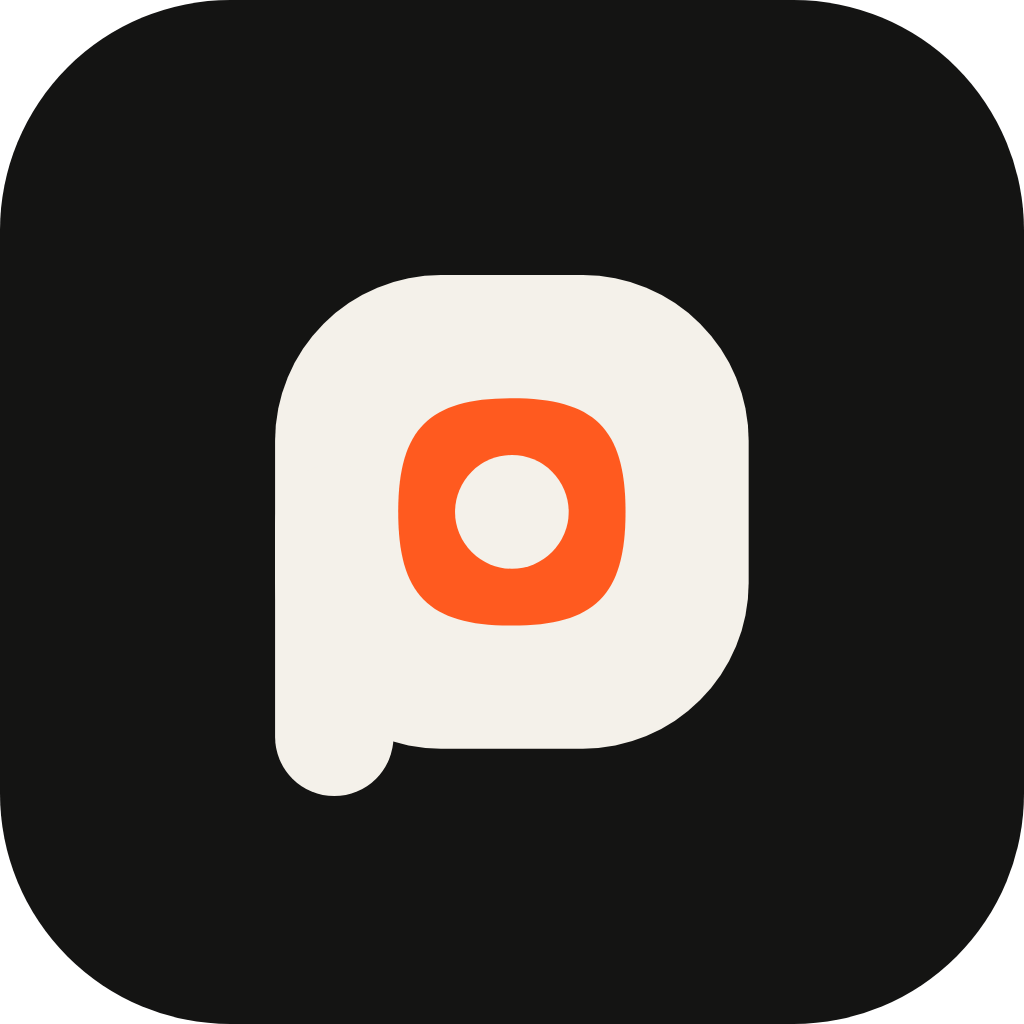
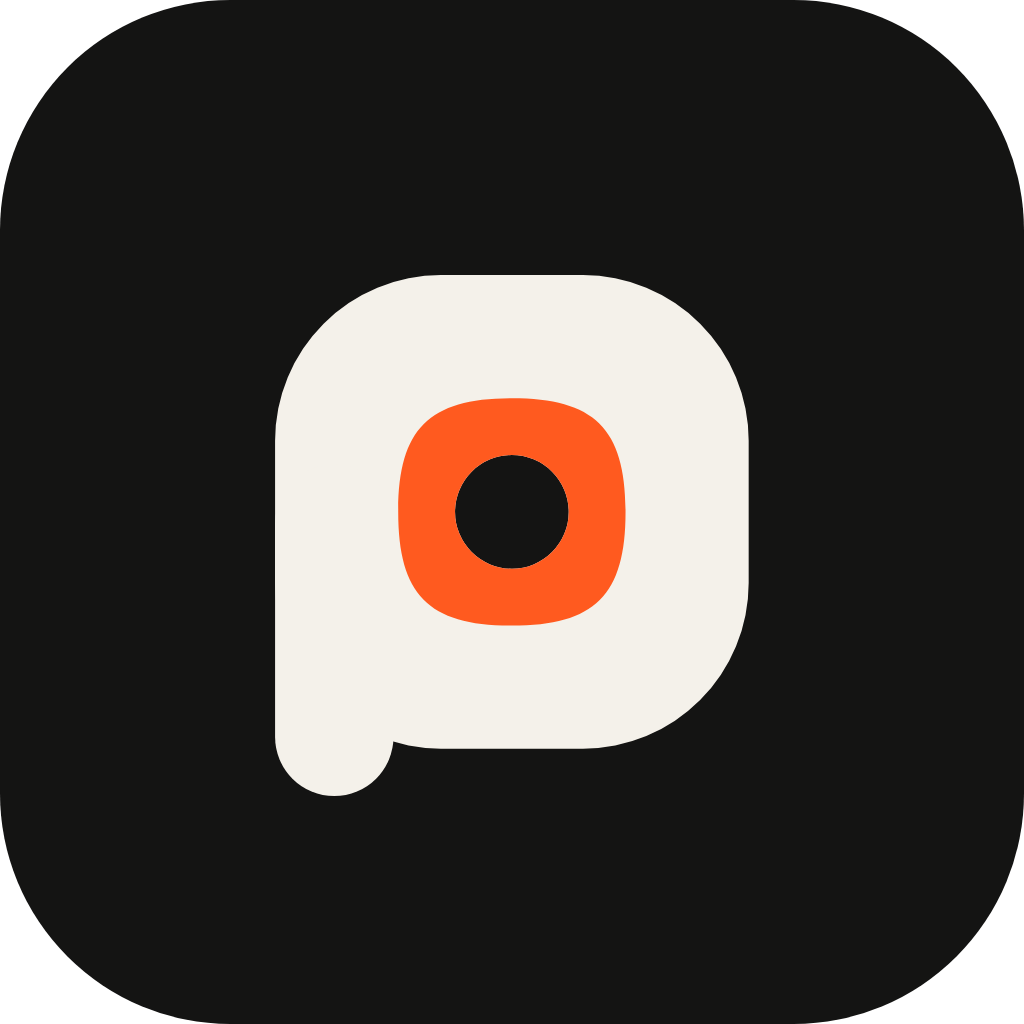
Brand: the pupil is a hole, so the mark's background shows through it

Changed region(s): [[0.4375, 0.4375, 0.5625, 0.5625]]

diff --git a/brand/build.ts b/brand/build.ts
@@ -30,16 +30,24 @@ const STEM = { x: 6, y: 14, w: 5, h: 14, r: 2.5 };
 export interface MarkOptions {
   ink?: string;
   accent?: string;
+  /**
+   * The pupil is a hole in the squircle, so whatever the mark sits on shows through: paper on the
+   * site, ink on the app icon, a photo behind a badge. `false` leaves the squircle whole (16–20px).
+   */
   pupil?: boolean | { cx?: number; cy?: number; r?: number };
-  /** Replaces the pupil with another ink shape (a blink line, a tick). */
+  /** An extra ink shape in the window (a blink line, a tick) for the states. */
   extra?: string;
 }
+
+/** A circle as a subpath, so the squircle can carry it as a hole (evenodd). */
+const circle = (cx: number, cy: number, r: number) => `M${cx - r} ${cy}a${r} ${r} 0 1 0 ${2 * r} 0a${r} ${r} 0 1 0 ${-2 * r} 0z`;
 
 /** The mark's inner SVG, 32×32 viewBox. */
 export function mark({ ink = INK, accent = ACCENT, pupil = true, extra = "" }: MarkOptions = {}): string {
   const p = typeof pupil === "object" ? pupil : {};
-  const dot = pupil ? `<circle cx="${p.cx ?? c}" cy="${p.cy ?? c}" r="${p.r ?? 2.4}" fill="${ink}"/>` : "";
-  return `<path d="${P}" fill="${ink}"/><rect x="${STEM.x}" y="${STEM.y}" width="${STEM.w}" height="${STEM.h}" rx="${STEM.r}" fill="${ink}"/><path d="${SQUIRCLE}" fill="${accent}"/>${dot}${extra}`;
+  // The hole goes through the squircle and the bowl beneath it, so the background really shows.
+  const hole = pupil ? circle(p.cx ?? c, p.cy ?? c, p.r ?? 2.4) : "";
+  return `<path fill-rule="evenodd" d="${P}${hole}" fill="${ink}"/><rect x="${STEM.x}" y="${STEM.y}" width="${STEM.w}" height="${STEM.h}" rx="${STEM.r}" fill="${ink}"/><path fill-rule="evenodd" d="${SQUIRCLE}${hole}" fill="${accent}"/>${extra}`;
 }
 
 export const svg = (inner: string, attrs = "") => `<svg xmlns="http://www.w3.org/2000/svg" viewBox="0 0 32 32"${attrs}>${inner}</svg>\n`;
@@ -61,7 +69,7 @@ if (import.meta.url === `file://${process.argv[1]}`) {
   await mkdir(dir, { recursive: true });
   await writeFile(`${dir}mark.svg`, svg(mark()));
   await writeFile(`${dir}mark-dark.svg`, svg(mark({ ink: PAPER })));
-  await writeFile(`${dir}mark-mono.svg`, svg(mark({ accent: INK }).replace(`r="2.4" fill="${INK}"`, `r="2.4" fill="${PAPER}"`)));
+  await writeFile(`${dir}mark-mono.svg`, svg(mark({ accent: INK })));
   await writeFile(`${dir}mark-small.svg`, svg(mark({ pupil: false })));
   await writeFile(
     `${dir}mark-states.svg`,
